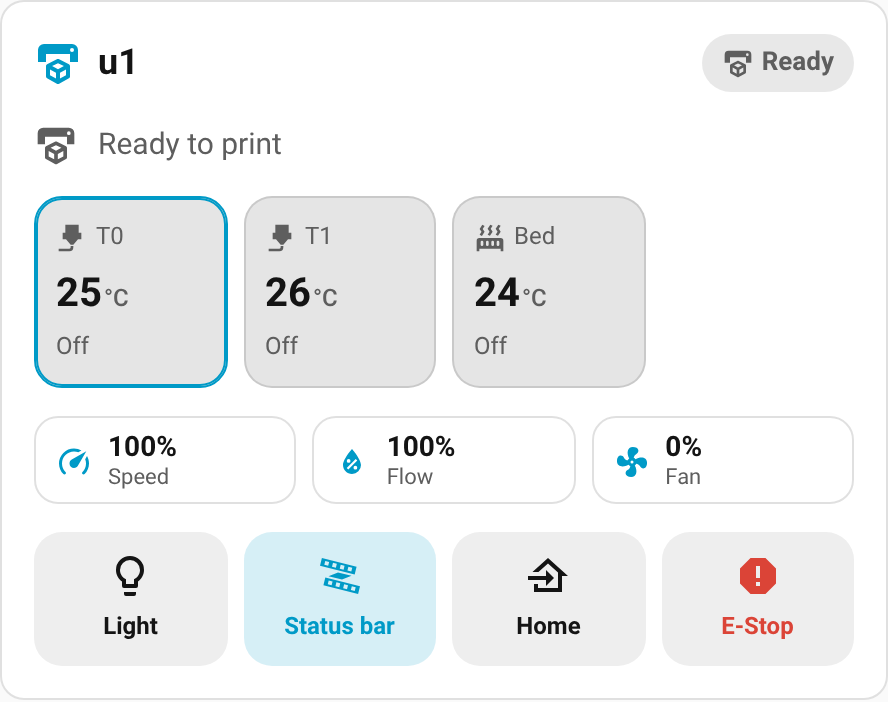
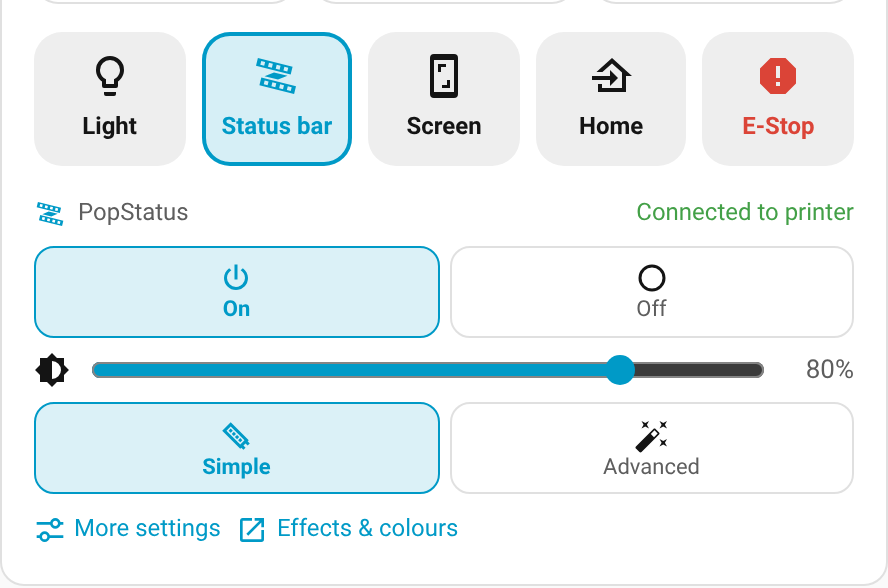
feat(card): Status bar opens a PopStatus panel with all its options
Tapping Status bar used to only toggle the light bar. It now opens a
panel under the controls with On/Off, a brightness slider (dimmed in
Advanced mode, where each effect has its own brightness), Simple /
Advanced mode, the printer connection, a "More settings" link to the
light's dialog and an "Effects & colours" link to the PopStatus web
page (new web_ui attribute on the light). Tap it again to close.

Sliders keep their position while being dragged and follow state
changes otherwise. Version 1.14.1.

Claude-Session: https://claude.ai/code/session_01EsRxmUdGaFc1xNX579xS7Z

diff --git a/custom_components/snapmaker_u1/www/snapmaker-u1-card.js b/custom_components/snapmaker_u1/www/snapmaker-u1-card.js
@@ -7,7 +7,7 @@
  * temperatures and print controls for one printer.
  */
 
-const CARD_VERSION = "1.14.0";
+const CARD_VERSION = "1.14.1";
 const DOMAIN = "snapmaker_u1";
 
 const ACCENTS = {
@@ -155,6 +155,7 @@ class SnapmakerU1Card extends HTMLElement {
     this._cameraFallback = false;
     this._snapshotTimer = null;
     this.shadowRoot.addEventListener("click", (ev) => this._onClick(ev));
+    this.shadowRoot.addEventListener("change", (ev) => this._onChange(ev));
   }
 
   setConfig(config) {
@@ -356,10 +357,15 @@ class SnapmakerU1Card extends HTMLElement {
           // new spool colour or heater target with the same state).
           return s ? `${s.state}|${s.last_updated ?? ""}|${s.attributes.klipper_message ?? ""}` : "";
         })
-        .join(";") + `|${this._armed?.action ?? ""}`;
+        .join(";") + `|${this._armed?.action ?? ""}|${this._popOpen ? 1 : 0}`;
     if (signature === this._signature) return;
     this._signature = signature;
     patchHTML(this._contentEl, this._renderContent());
+    // patchHTML only updates the value attribute; move sliders to the new
+    // value unless the user is dragging one.
+    for (const input of this._contentEl.querySelectorAll("input[type=range]")) {
+      if (this.shadowRoot.activeElement !== input) input.value = input.getAttribute("value");
+    }
   }
 
   _updateCamera() {
@@ -447,7 +453,8 @@ class SnapmakerU1Card extends HTMLElement {
       ${this._config.show_chamber_presets !== false ? this._renderChamberPresets() : ""}
       ${this._config.show_top_cover !== false ? this._renderTopCover() : ""}
       ${this._renderStats()}
-      ${this._config.show_controls !== false ? this._renderControls(status, light) : ""}`;
+      ${this._config.show_controls !== false ? this._renderControls(status, light) : ""}
+      ${this._popOpen ? this._renderPopStatus() : ""}`;
   }
 
   _renderAlerts() {
@@ -789,8 +796,9 @@ class SnapmakerU1Card extends HTMLElement {
     const bar = this._state("light.popstatus_light");
     if (bar && !bar.attributes.restored) {
       const on = bar.state === "on";
+      // Opens the PopStatus panel (on/off, brightness, mode) under the controls
       buttons.push(
-        this._control("toggle:light.popstatus_light", on ? "mdi:led-strip-variant" : "mdi:led-strip-variant-off", "Status bar", on ? "on" : "", false, bar.state === "unavailable")
+        this._control("pop-panel", on ? "mdi:led-strip-variant" : "mdi:led-strip-variant-off", "Status bar", `${on ? "on" : ""} ${this._popOpen ? "open" : ""}`.trim())
       );
     }
     if (this._printer?.screen_url) {
@@ -803,6 +811,69 @@ class SnapmakerU1Card extends HTMLElement {
       buttons.push(this._control("estop", "mdi:alert-octagon", "E-Stop", "danger", true, offline));
     }
     return `<div class="controls">${buttons.join("")}</div>`;
+  }
+
+  // BIQU PopStatus controls, shown when the Status bar button is tapped.
+  _renderPopStatus() {
+    const lightId = this._eid("light.popstatus_light");
+    const bar = lightId && this._hass.states[lightId];
+    if (!bar) return "";
+    const offline = bar.state === "unavailable";
+    const on = bar.state === "on";
+    const pct = bar.attributes.brightness != null ? Math.round((bar.attributes.brightness * 100) / 255) : 0;
+    const modeId = this._eid("select.popstatus_light_mode");
+    const mode = modeId && this._hass.states[modeId];
+    const advanced = mode?.state === "advanced";
+    const link = this._state("binary_sensor.popstatus_printer_link");
+    const linkText = offline
+      ? "Light bar offline"
+      : link?.state === "on"
+        ? "Connected to printer"
+        : link?.state === "off"
+          ? "Not connected to printer"
+          : "";
+    const chip = (action, attrs, label, icon, active, disabled) => `
+      <button class="preset ${active ? "active" : ""}" data-action="${action}" ${attrs} ${disabled ? "disabled" : ""}>
+        <ha-icon icon="${icon}"></ha-icon><span class="preset-temp">${label}</span>
+      </button>`;
+    return `
+      <div class="presets pop">
+        <div class="presets-title">
+          <ha-icon icon="mdi:led-strip-variant"></ha-icon>PopStatus
+          <span class="pop-link ${link?.state === "on" && !offline ? "ok" : ""}">${esc(linkText)}</span>
+        </div>
+        <div class="preset-row">
+          ${chip("pop-power", 'data-on="1"', "On", "mdi:power", on, offline)}
+          ${chip("pop-power", 'data-on="0"', "Off", "mdi:power-off", !on && !offline, offline)}
+        </div>
+        <label class="pop-slider ${advanced ? "muted" : ""}" title="${advanced ? "In Advanced mode each effect has its own brightness (PopStatus web page)" : "Brightness"}">
+          <ha-icon icon="mdi:brightness-6"></ha-icon>
+          <input type="range" min="1" max="100" step="1" value="${pct || 1}" data-action="pop-brightness"
+            data-entity="${esc(lightId)}" ${offline ? "disabled" : ""}>
+          <span>${on ? `${pct}%` : "Off"}</span>
+        </label>
+        ${mode ? `<div class="preset-row">
+          ${chip("pop-mode", `data-entity="${esc(modeId)}" data-option="simple"`, "Simple", "mdi:led-strip", mode.state === "simple", offline)}
+          ${chip("pop-mode", `data-entity="${esc(modeId)}" data-option="advanced"`, "Advanced", "mdi:auto-fix", advanced, offline)}
+        </div>` : ""}
+        <div class="pop-links">
+          <button class="pop-more" data-action="more-info" data-entity="${esc(lightId)}">
+            <ha-icon icon="mdi:tune-variant"></ha-icon>More settings
+          </button>
+          ${bar.attributes.web_ui ? `<a class="pop-more" href="${esc(bar.attributes.web_ui)}" target="_blank" rel="noopener">
+            <ha-icon icon="mdi:open-in-new"></ha-icon>Effects &amp; colours</a>` : ""}
+        </div>
+      </div>`;
+  }
+
+  _onChange(ev) {
+    const target = ev.composedPath().find((el) => el.dataset && el.dataset.action);
+    if (target?.dataset.action === "pop-brightness") {
+      this._hass.callService("light", "turn_on", {
+        entity_id: target.dataset.entity,
+        brightness_pct: Number(target.value),
+      });
+    }
   }
 
   _control(action, icon, label, variant = "", confirm = false, disabled = false) {
@@ -863,6 +934,20 @@ class SnapmakerU1Card extends HTMLElement {
         break;
       case "home":
         press("button.home_all");
+        break;
+      case "pop-panel":
+        this._popOpen = !this._popOpen;
+        break;
+      case "pop-power":
+        this._hass.callService("light", target.dataset.on === "1" ? "turn_on" : "turn_off", {
+          entity_id: this._eid("light.popstatus_light"),
+        });
+        break;
+      case "pop-mode":
+        this._hass.callService("select", "select_option", {
+          entity_id: target.dataset.entity,
+          option: target.dataset.option,
+        });
         break;
       case "screen":
         // The printer's touchscreen in a new tab (Extended Firmware remote screen)
@@ -1070,6 +1155,23 @@ const STYLES = `
   .preset:disabled { opacity: .4; cursor: default; }
   .preset-name { font-size: 12px; font-weight: 600; }
   .cover .preset-row { grid-template-columns: repeat(auto-fit, minmax(72px, 1fr)); }
+  .pop .preset-row { grid-template-columns: repeat(auto-fit, minmax(72px, 1fr)); }
+  .pop .preset { --mdc-icon-size: 18px; }
+  .pop .preset.active { border-color: var(--sm-accent); background: color-mix(in srgb, var(--sm-accent) 14%, transparent); }
+  .pop .preset.active .preset-temp, .pop .preset.active ha-icon { color: var(--sm-accent); }
+  .pop .presets-title ha-icon { color: var(--sm-accent); }
+  .pop-link { margin-left: auto; }
+  .pop-link.ok { color: var(--success-color, #43a047); }
+  .pop-slider { display: flex; align-items: center; gap: 8px; font-size: 13px; --mdc-icon-size: 18px; }
+  .pop-slider input { flex: 1; accent-color: var(--sm-accent); }
+  .pop-slider span { min-width: 34px; text-align: right; color: var(--secondary-text-color); }
+  .pop-slider.muted { opacity: .55; }
+  .pop-links { display: flex; gap: 8px; flex-wrap: wrap; }
+  .pop-more {
+    display: inline-flex; align-items: center; gap: 4px; font: inherit; font-size: 12px; cursor: pointer;
+    color: var(--primary-color); background: none; border: none; padding: 2px 0; text-decoration: none; --mdc-icon-size: 16px;
+  }
+  .control.open { box-shadow: inset 0 0 0 2px var(--sm-accent); }
   .cover .preset { --mdc-icon-size: 18px; }
   .cover .preset.active { border-color: var(--primary-color); background: color-mix(in srgb, var(--primary-color) 14%, transparent); }
   .cover .preset.active .preset-temp, .cover .preset.active ha-icon { color: var(--primary-color); }

diff --git a/custom_components/snapmaker_u1/light.py b/custom_components/snapmaker_u1/light.py
@@ -53,6 +53,8 @@ class PopStatusLight(PopStatusEntity, LightEntity):
         return {
             "light_mode": POPSTATUS_LIGHT_MODES.get(data.light_mode),
             "printer_connected": data.printer_linked,
+            # Its own web page, for effects and colours per printer state
+            "web_ui": f"http://{self.popstatus.host}",
         }
 
     async def async_turn_on(self, **kwargs: Any) -> None:

diff --git a/README.md b/README.md
@@ -208,7 +208,7 @@ What it shows:
 - **Speed, flow and fan** at a glance. Tap to adjust.
 - ⚠ **Alerts** for printer errors and filament runout.
 - 🎛 **Controls**: Pause/Resume, Cancel, Light, Filter (Panda Breath), Status
-  bar (PopStatus), Screen (Extended Firmware remote screen), Home and E-Stop.
+  bar (opens the PopStatus panel), Screen (Extended Firmware remote screen), Home and E-Stop.
   Cancel and E-Stop need a second tap to confirm.
 
 Options (all optional; all except `chamber_presets` are also in the visual editor):
@@ -395,11 +395,20 @@ It appears as its own **PopStatus** device, linked to the printer:
 | `binary_sensor.popstatus_printer_connection` | On while the PopStatus is connected to the printer |
 
 On the dashboard card of the printer you picked, it adds a **Status bar**
-button to switch it on and off.
+button. Tap it to open the PopStatus panel:
+- **On / Off**
+- **Brightness** slider (Simple mode; in Advanced mode each effect has its own
+  brightness, so the slider is dimmed)
+- **Simple / Advanced** light mode
+- whether it's **connected to the printer**
+- **More settings** (Home Assistant's light dialog) and **Effects & colours**
+  (opens the PopStatus web page)
 
-| Status bar button on the card | PopStatus controls in Home Assistant |
+Tap **Status bar** again to close it.
+
+| PopStatus panel on the card | PopStatus controls in Home Assistant |
 |---|---|
-| ![Snapmaker U1 card with the Status bar button](docs/images/popstatus-card.png) | ![PopStatus light, light mode and printer connection](docs/images/popstatus-controls.png) |
+| ![Snapmaker U1 card with the PopStatus panel open](docs/images/popstatus-card.png) | ![PopStatus light, light mode and printer connection](docs/images/popstatus-controls.png) |
 
 Notes:
 - The PopStatus still needs to be set up and connected to your printer with
